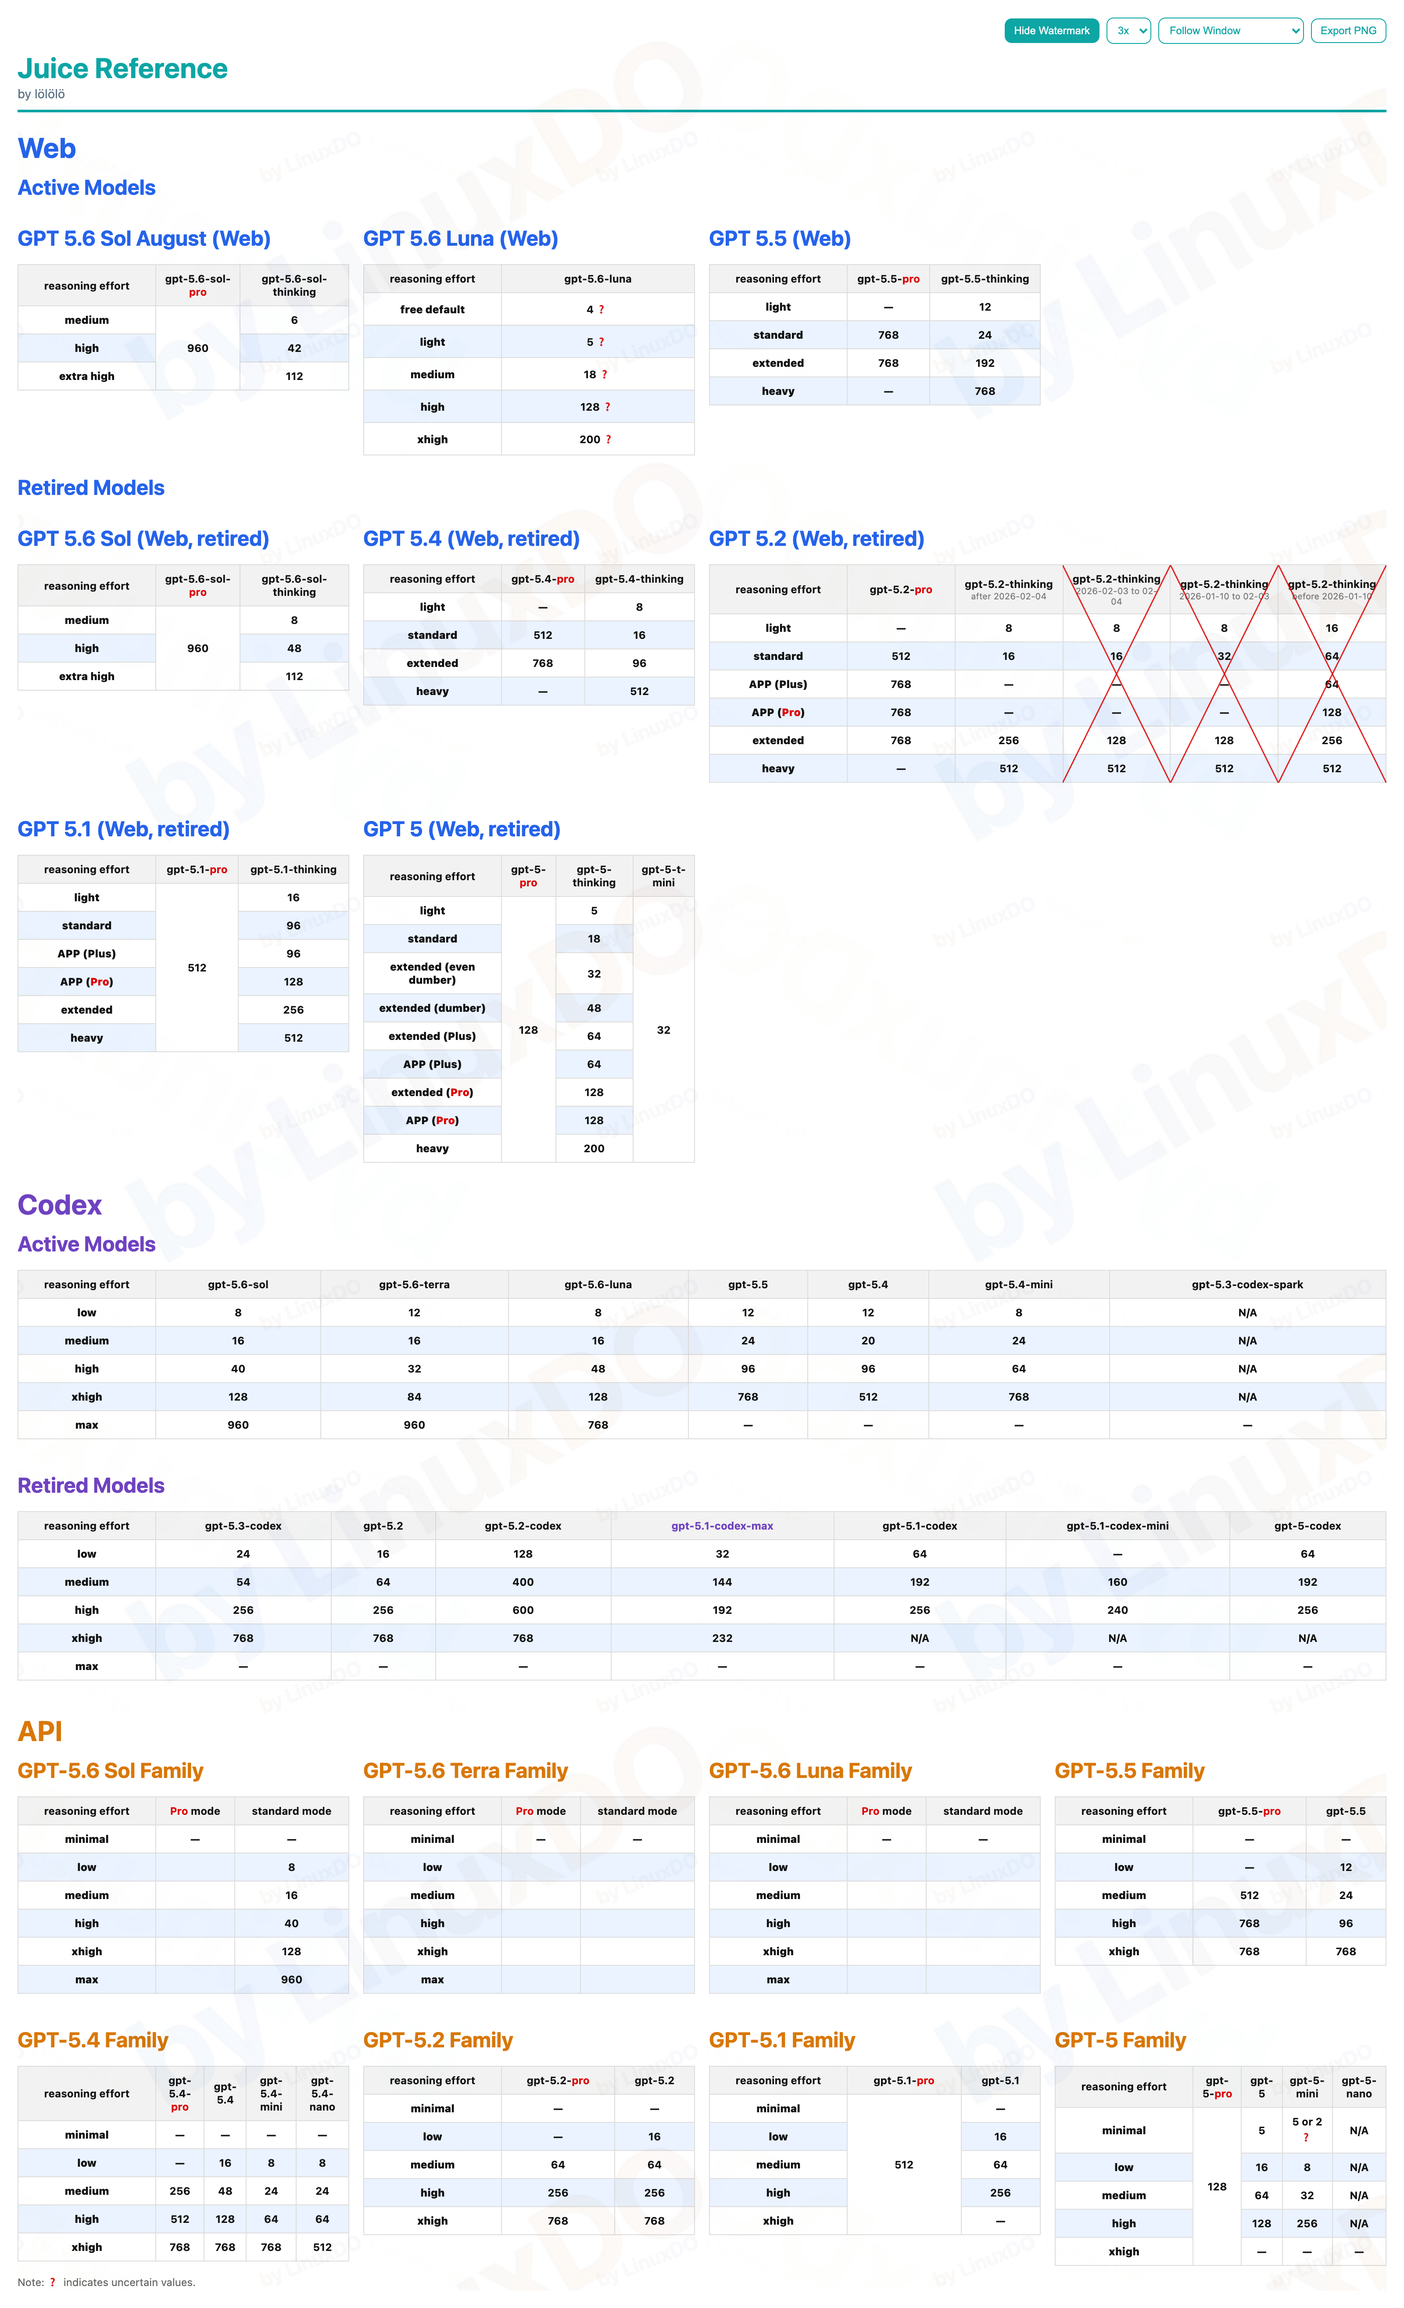
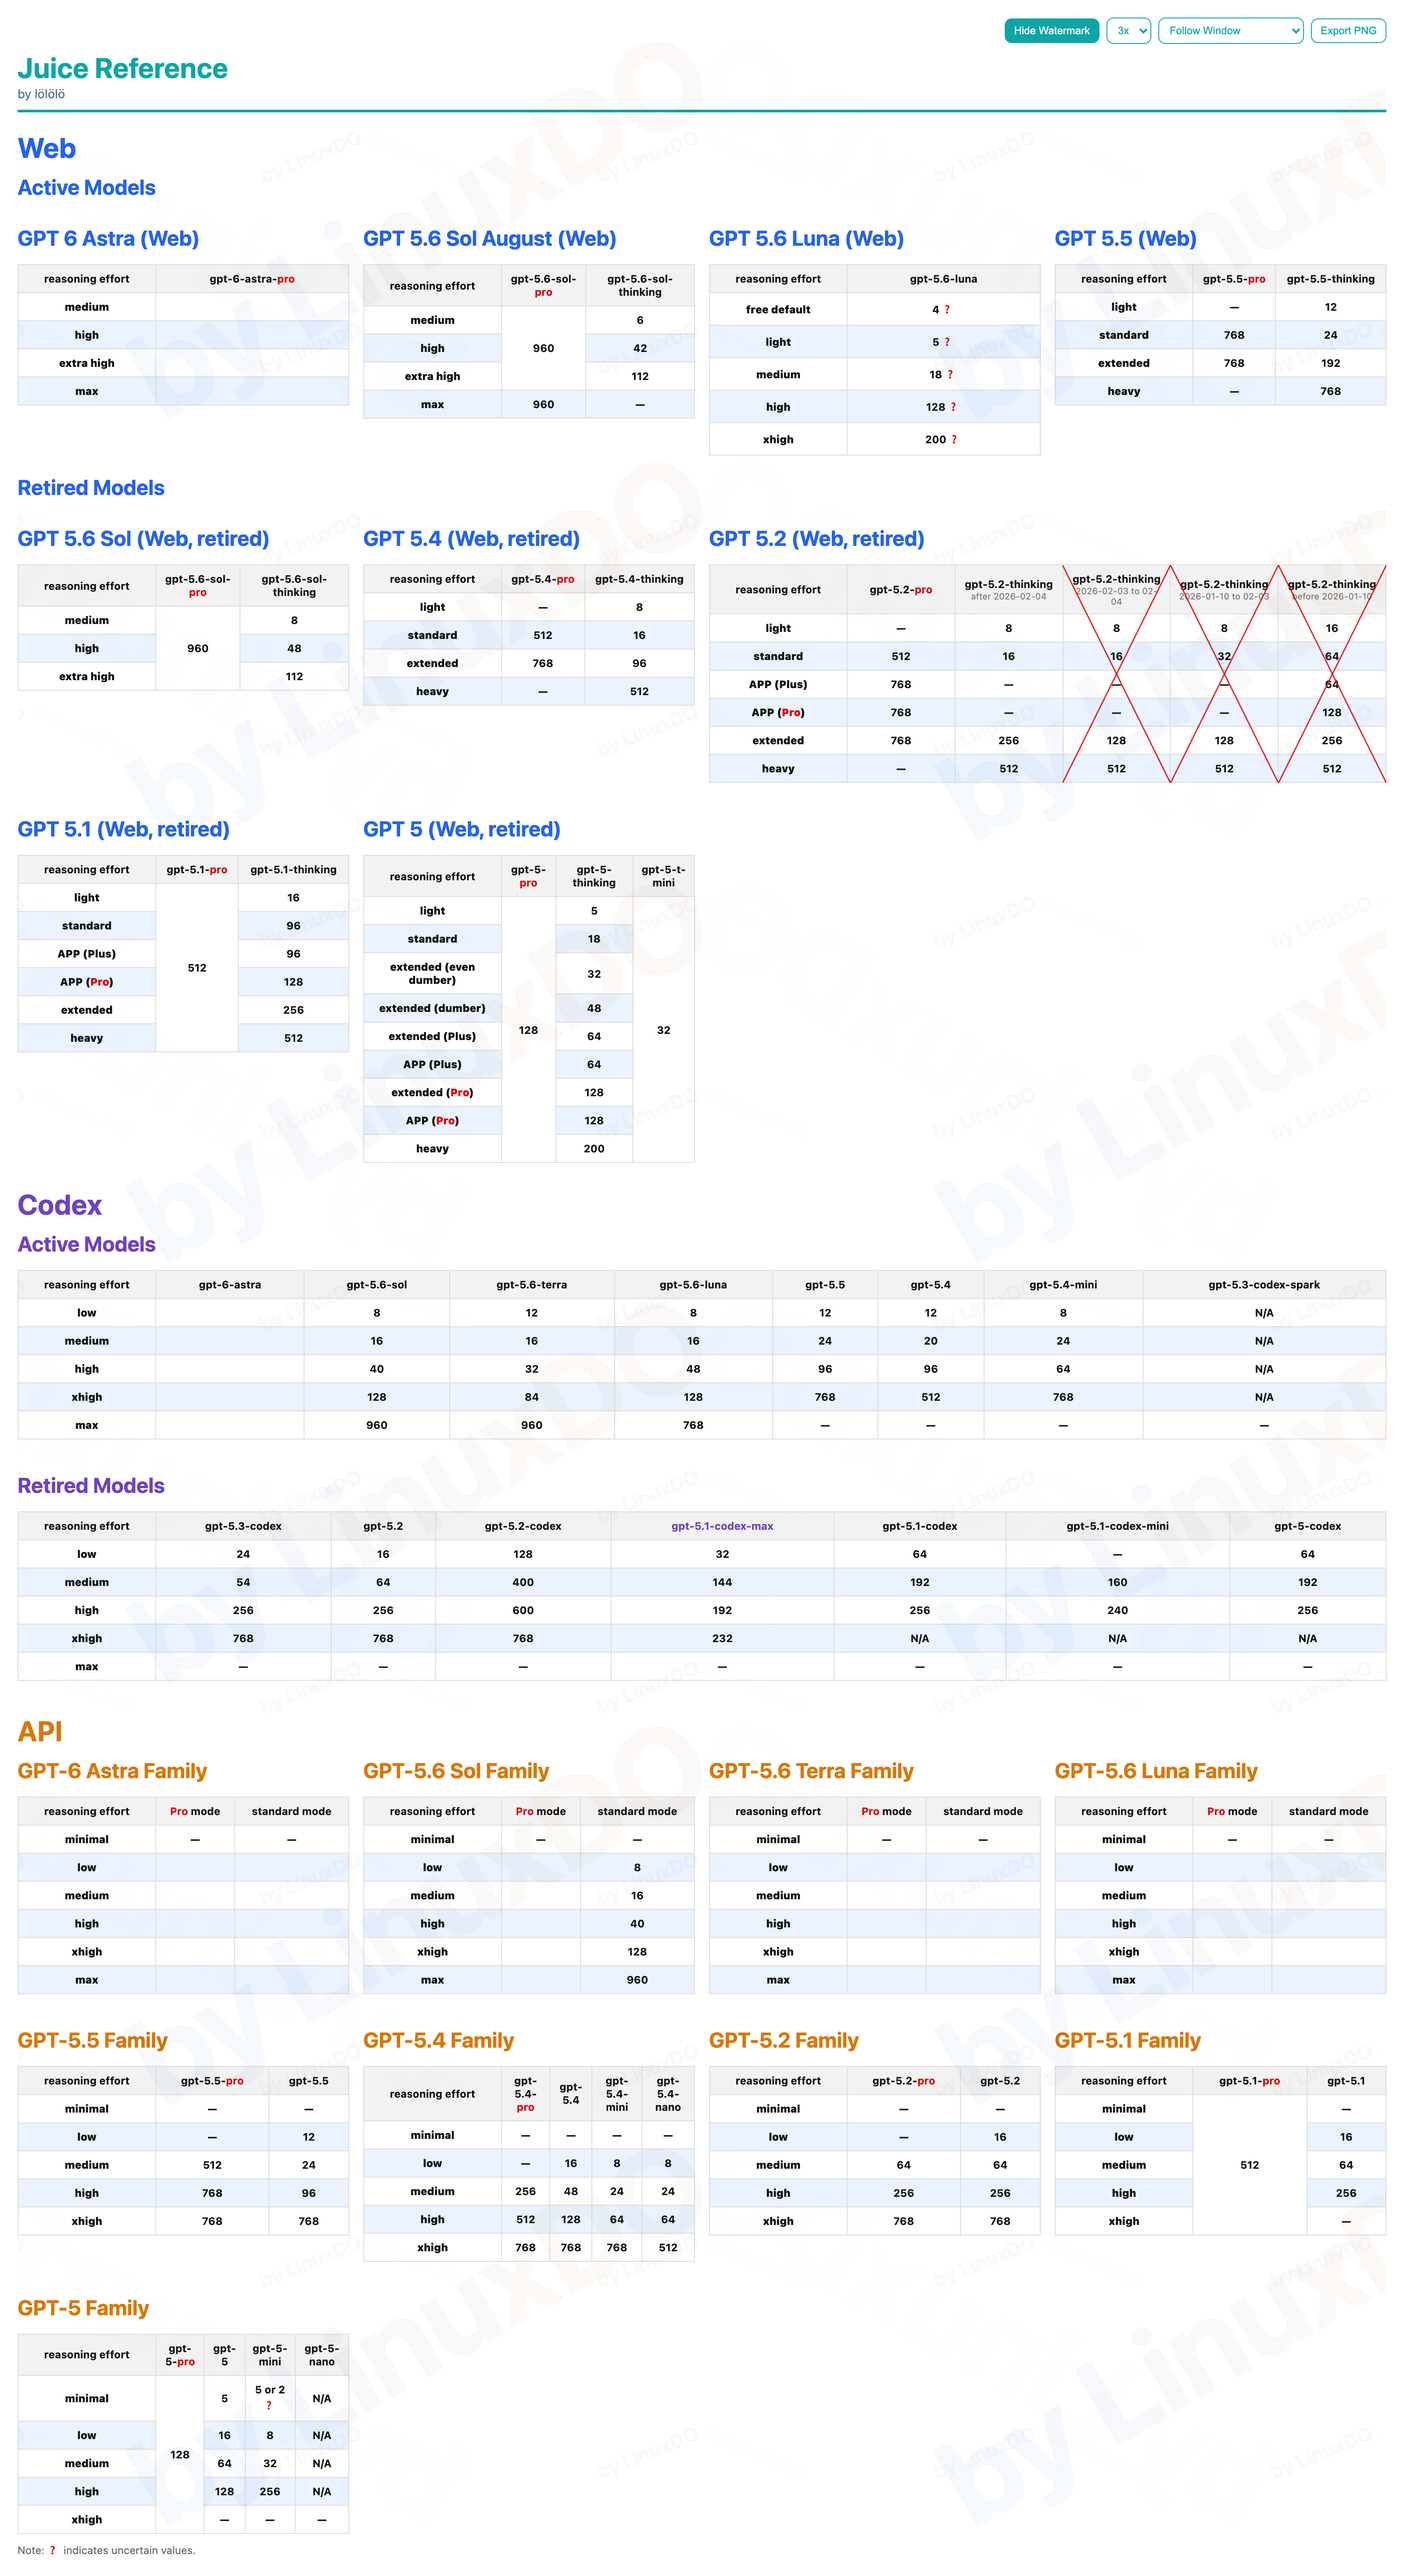
2026.09.04-2: Add GPT-6 Astra references

diff --git a/README.md b/README.md
@@ -6,7 +6,7 @@ Maintenance rules for future GPT editors:
 2) The second line must stay as the Linux.Do website link.
 -->
 
-2026.09.04-1
+2026.09.04-2
 
 [Linux.Do](https://linux.do)
 
